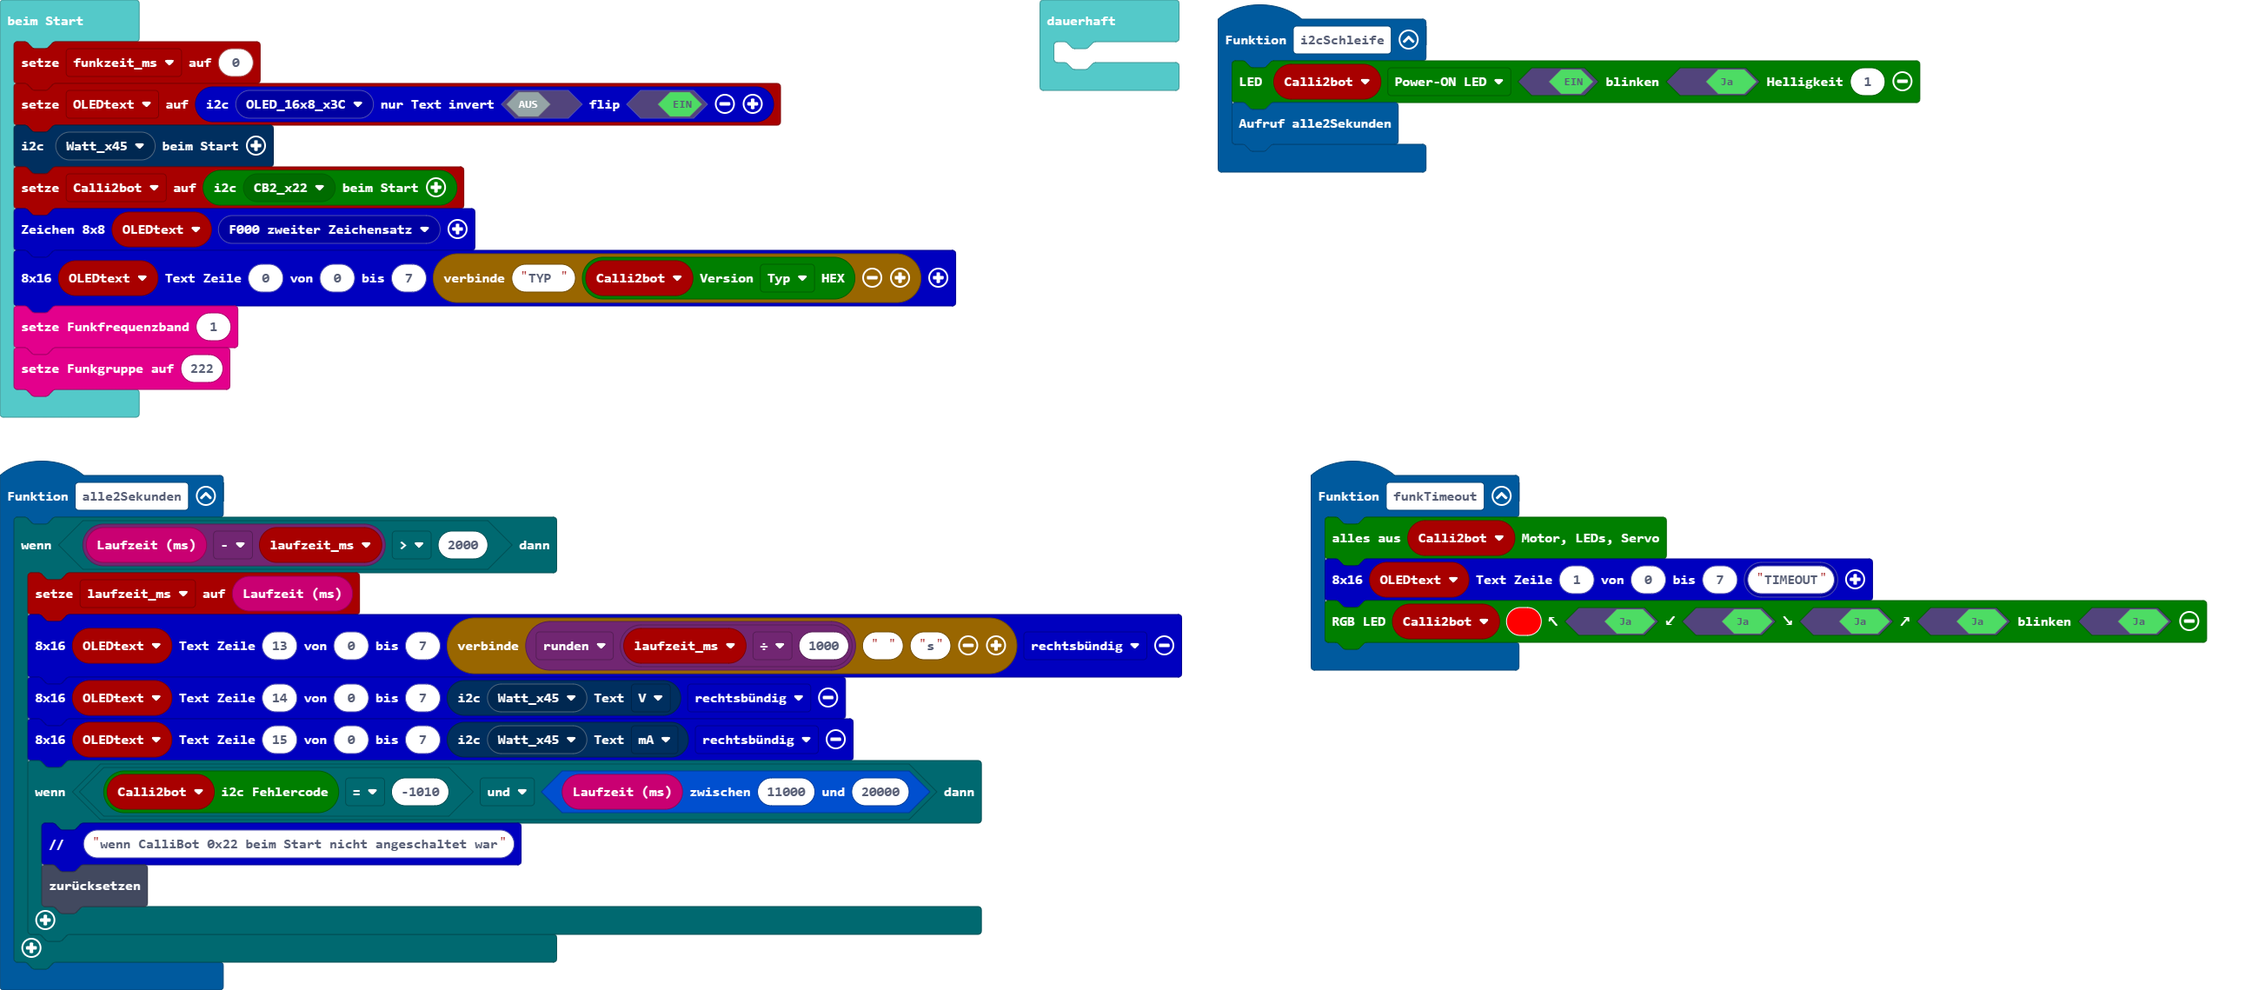
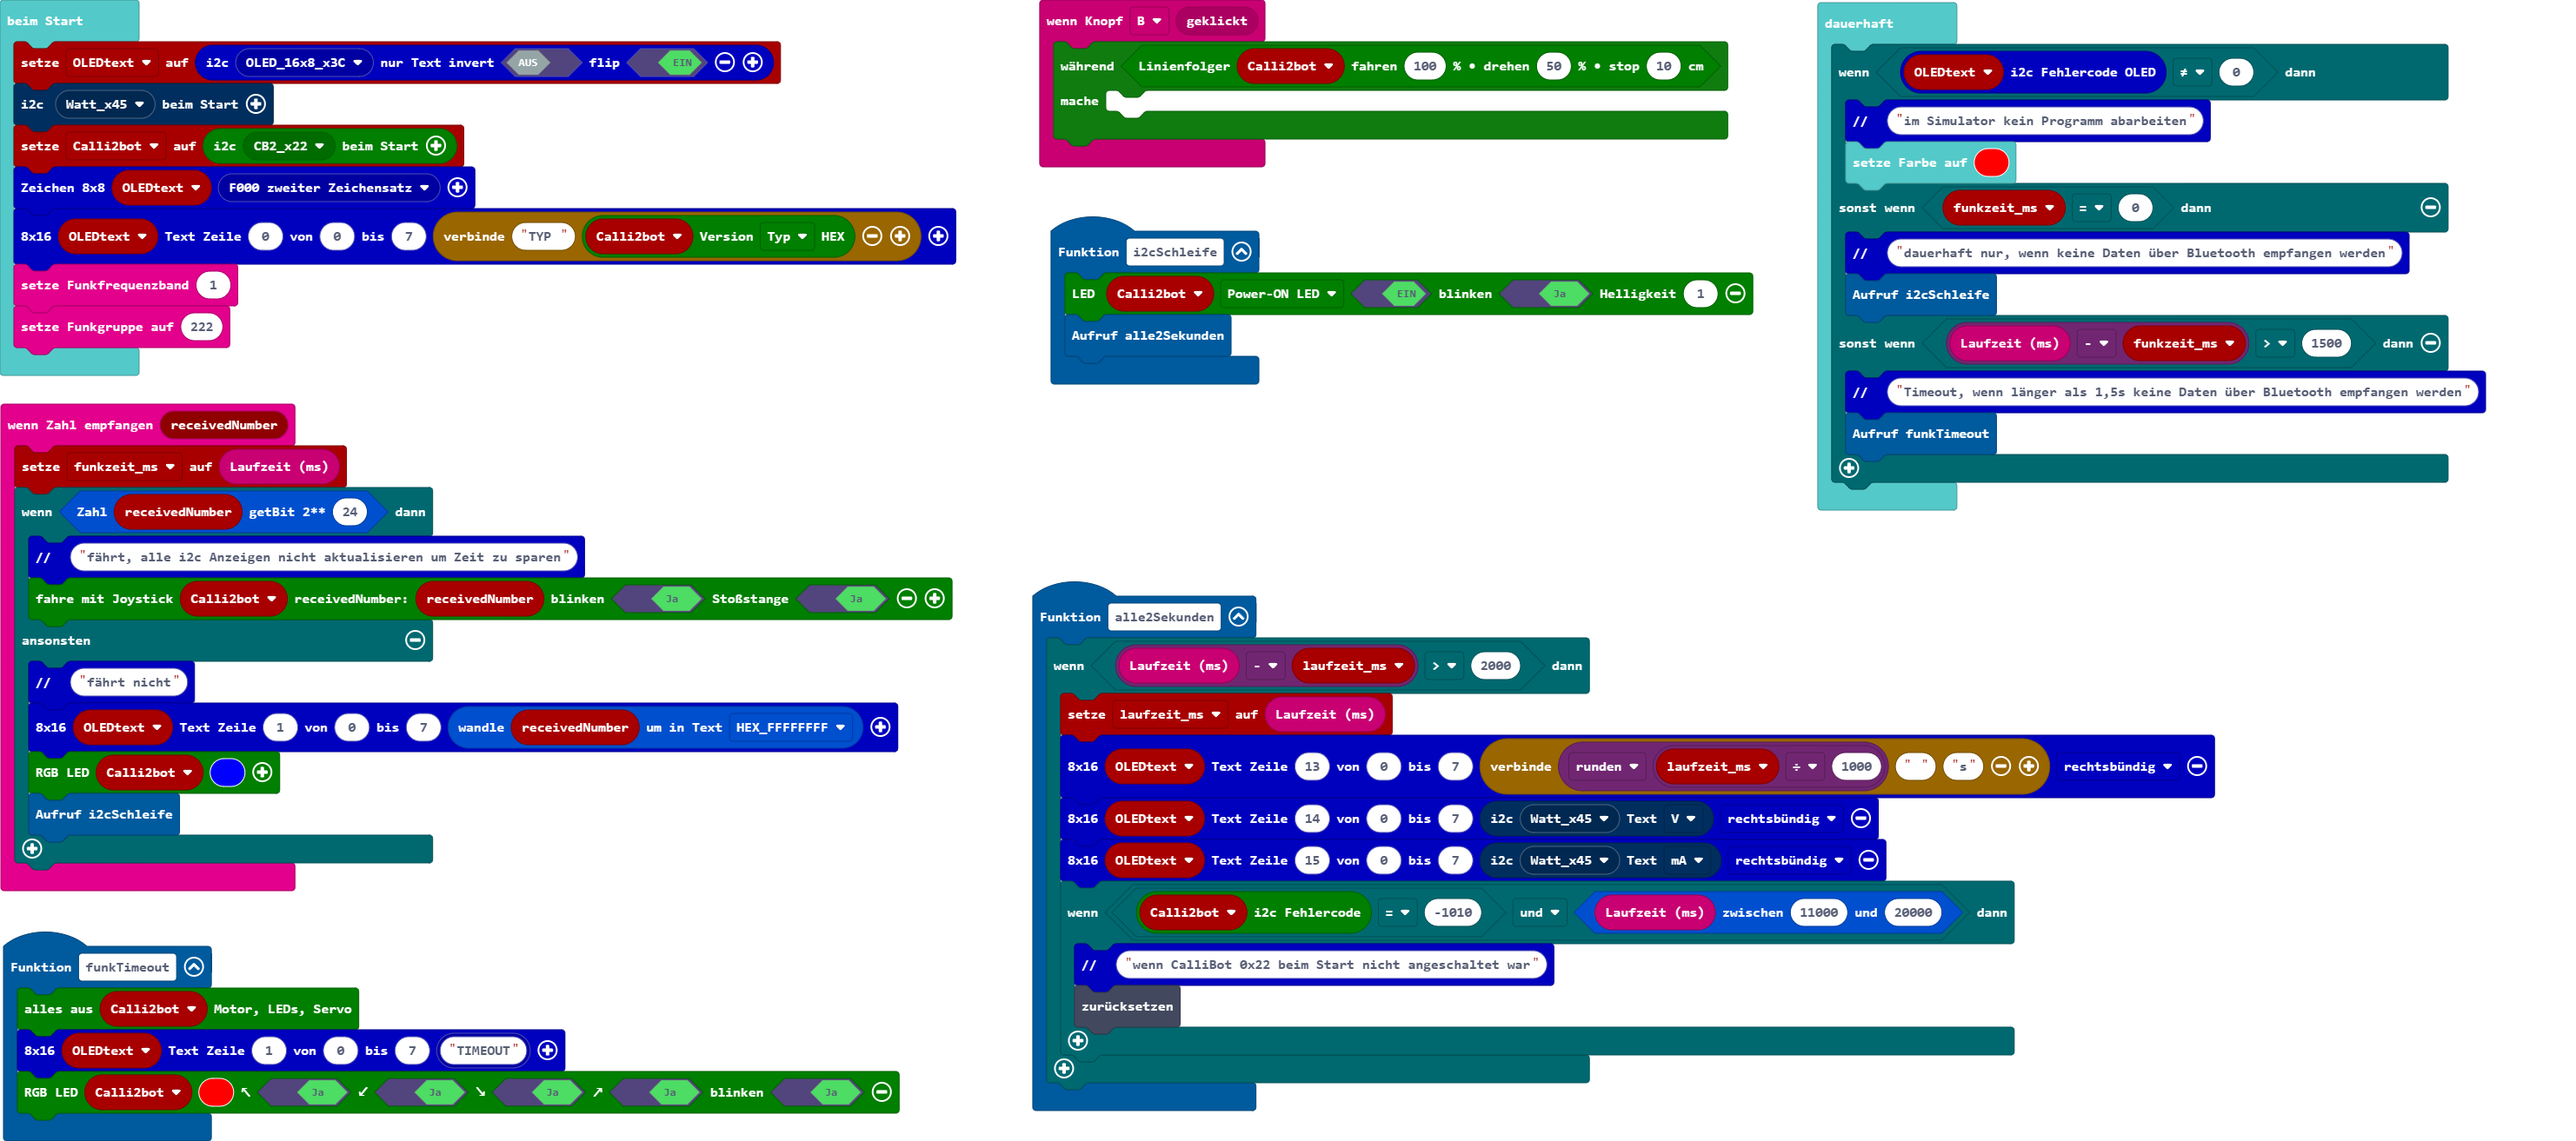
Aktualisiere main.blocks, main.ts

diff --git a/main.ts b/main.ts
@@ -1,8 +1,25 @@
+radio.onReceivedNumber(function (receivedNumber) {
+    funkzeit_ms = input.runningTime()
+    if (bit.getBit(receivedNumber, 24)) {
+        oled.comment("fährt, alle i2c Anzeigen nicht aktualisieren um Zeit zu sparen")
+        Calli2bot.fahreJoystick(receivedNumber, true, true)
+    } else {
+        oled.comment("fährt nicht")
+        OLEDtext.writeText8x16(1, 0, 7, bit.formatNumber(receivedNumber, bit.eLength.HEX_FFFFFFFF))
+        Calli2bot.setRgbLed3(0x0000ff)
+        i2cSchleife()
+    }
+})
 function funkTimeout () {
     Calli2bot.i2cRESET_OUTPUTS()
     OLEDtext.writeText8x16(1, 0, 7, oled.oled_text("TIMEOUT"))
     Calli2bot.setRgbLed3(0xff0000, true, true, true, true, true)
 }
+input.onButtonEvent(Button.B, input.buttonEventClick(), function () {
+    while (Calli2bot.seite9Linienfolger(100, 50, 10)) {
+    	
+    }
+})
 function i2cSchleife () {
     Calli2bot.setLed1(calli2bot.eLed.poweron, true, true, 1)
     alle2Sekunden()
@@ -20,9 +37,9 @@ function alle2Sekunden () {
     }
 }
 let laufzeit_ms = 0
+let funkzeit_ms = 0
 let Calli2bot: calli2bot.Calli2bot = null
 let OLEDtext: oled.oledclass = null
-let funkzeit_ms = 0
 OLEDtext = oled.new_oledclass(oled.oled_eADDR_OLED(oled.eADDR_OLED.OLED_16x8_x3C), false, true)
 wattmeter.reset(wattmeter.wattmeter_eADDR(wattmeter.eADDR.Watt_x45))
 Calli2bot = calli2bot.beimStart(calli2bot.calli2bot_eADDR(calli2bot.eADDR.CB2_x22))
@@ -31,5 +48,14 @@ OLEDtext.writeText8x16(0, 0, 7, "TYP " + Calli2bot.i2cReadFW_VERSION(calli2bot.e
 radio.setFrequencyBand(1)
 radio.setGroup(222)
 basic.forever(function () {
-	
+    if (OLEDtext.geti2cError_OLED() != 0) {
+        oled.comment("im Simulator kein Programm abarbeiten")
+        basic.setLedColor(0xff0000)
+    } else if (funkzeit_ms == 0) {
+        oled.comment("dauerhaft nur, wenn keine Daten über Bluetooth empfangen werden")
+        i2cSchleife()
+    } else if (input.runningTime() - funkzeit_ms > 1500) {
+        oled.comment("Timeout, wenn länger als 1,5s keine Daten über Bluetooth empfangen werden")
+        funkTimeout()
+    }
 })
